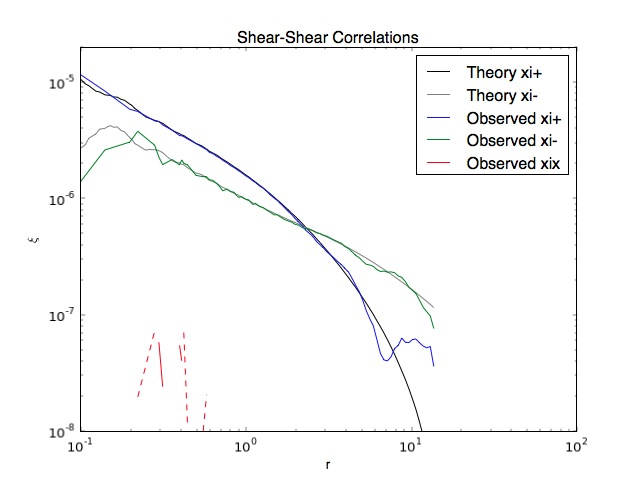
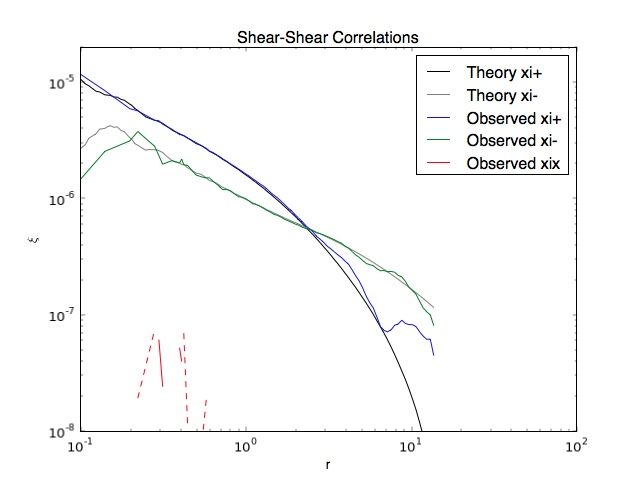
Fix sign errors in lensing module (#304)

diff --git a/galsim/lensing.py b/galsim/lensing.py
@@ -870,18 +870,35 @@ class PowerSpectrumRealizer(object):
     def set_size(self, ngrid, pixel_size):
         self.nx = ngrid
         self.ny = ngrid
-        i_kx, i_ky = np.mgrid[0: self.nx / 2 + 1, 0: self.ny / 2 + 1]
-        self.i_kx = i_kx
-        self.i_ky = i_ky
+
+        # Setup some handy numpy indices for indexing different parts of k space
+        self.ikx = slice(0,self.nx/2+1)     # positive kx values, including 0, nx/2
+        self.ikxp = slice(1,self.nx/2)      # limit to only values with a negative value
+        self.ikxn = slice(-1,-self.nx/2,-1) # negative kx values
+
+        # We always call this with nx=ny, so behavior with nx != ny is not tested.
+        # However, we make a basic attempt to enable such behavior in the future if needed.
+        self.iky = slice(0,self.ny/2+1)
+        self.ikyp = slice(1,self.ny/2)
+        self.ikyn = slice(-1,-self.ny/2,-1)
+
+        # Set up the scalar k grid. Generally, for a box size of L (in one dimension), the grid
+        # spacing in k_x or k_y is Delta k=2pi/L 
         pixel_size = float(pixel_size)
         self.pixel_size = pixel_size
+        i_ky, i_kx = np.mgrid[self.iky, self.ikx]
+        self.kx = i_kx * 2. * np.pi / (pixel_size * self.nx)
+        self.ky = i_ky * 2. * np.pi / (pixel_size * self.ny)
 
-        # Set up the scalar |k| grid. Generally, for a box size of L (in one dimension), the grid
-        # spacing in k_x or k_y is Delta k=2pi/L (Barney edit: sqrt faster than **.5 I think...)
-        self.k = 2.*np.pi*np.sqrt((i_kx / (pixel_size * self.nx))**2 + (i_ky / (pixel_size * self.ny))**2)
-
-        #Compute the spin weightings
-        self._cos, self._sin = self._generate_spin_weightings()        
+        # Compute the spin weightings
+        kz = self.kx + self.ky*1j
+        # exp(2i psi) = kz^2 / |kz|^2
+        ksq = kz*np.conj(kz)
+        # Need to adjust denominator for kz=0 to avoid division by 0.
+        ksq[0,0] = 1.
+        self.exp2ipsi = kz*kz/ksq
+        # Note: this leaves exp2ipsi[0,0] = 0, but it turns out that's ok, since we only
+        # ever multiply it by something that is 0 anyway (amplitude[0,0] = 0).
 
     def set_power(self, p_E, p_B):
         self.p_E = p_E
@@ -908,95 +925,100 @@ class PowerSpectrumRealizer(object):
                 "The gd provided to the PowerSpectrumRealizer is not a GaussianDeviate!")
 
         # Generate a random complex realization for the E-mode, if there is one
+        nx = self.nx
+        ny = self.ny
         if self.amplitude_E is not None:
             r1 = galsim.utilities.rand_arr(self.amplitude_E.shape, gd)
             r2 = galsim.utilities.rand_arr(self.amplitude_E.shape, gd)
-            E_k = self.amplitude_E * (r1 + 1j*r2) * ISQRT2  
+            E_k = np.empty((ny,nx)).astype(type(1.+1.j))
+            E_k[:,self.ikx] = self.amplitude_E * (r1 + 1j*r2) * ISQRT2
+            # E_k corresponds to real kappa, so E_k[-k] = conj(E_k[k])
+            # First update the kx=0 values to be consistent with that fact:
+            E_k[self.ikyn,0] = np.conj(E_k[self.ikyp,0])
+            # Then fill the kx<0 values appropriately
+            E_k[self.ikyp,self.ikxn] = np.conj(E_k[self.ikyn,self.ikxp])
+            E_k[self.ikyn,self.ikxn] = np.conj(E_k[self.ikyp,self.ikxp])
+            E_k[0,self.ikxn] = np.conj(E_k[0,self.ikxp])
+            E_k[ny/2,self.ikxn] = np.conj(E_k[ny/2,self.ikxp])
         else: E_k = 0
 
         # Generate a random complex realization for the B-mode, if there is one
         if self.amplitude_B is not None:
             r1 = galsim.utilities.rand_arr(self.amplitude_B.shape, gd)
             r2 = galsim.utilities.rand_arr(self.amplitude_B.shape, gd)
-            B_k = self.amplitude_B * (r1 + 1j*r2) * ISQRT2
+            B_k = np.empty((ny,nx)).astype(type(1.+1.j))
+            B_k[:,self.ikx] = self.amplitude_B * (r1 + 1j*r2) * ISQRT2
+            # B_k corresponds to imag kappa, so B_k[-k] = -conj(B_k[k])
+            # However, we later multiply this by i, so that means here B_k[-k] = conj(B_k[k])
+            B_k[self.ikyn,0] = np.conj(B_k[self.ikyp,0])
+            B_k[self.ikyp,self.ikxn] = np.conj(B_k[self.ikyn,self.ikxp])
+            B_k[self.ikyn,self.ikxn] = np.conj(B_k[self.ikyp,self.ikxp])
+            B_k[0,self.ikxn] = np.conj(B_k[0,self.ikxp])
+            B_k[ny/2,self.ikxn] = np.conj(B_k[ny/2,self.ikxp])
         else:
             B_k = 0
 
-        # Now convert from E,B to g1,g2  still in fourier space
-        g1_k =  self._cos*E_k + self._sin*B_k
-        g2_k = -self._sin*E_k + self._cos*B_k
+        # In terms of kappa, the E mode is the real kappa, and the B mode is imaginary kappa:
+        # In fourier space, both E_k and B_k are complex, but the same E + i B relation holds.
+        kappa_k = E_k + 1j * B_k
 
-        # And go to real space to get the real-space shear fields
-        g1 = g1_k.shape[0] * np.fft.irfft2(g1_k, s=(self.nx,self.ny))
-        g2 = g2_k.shape[0] * np.fft.irfft2(g2_k, s=(self.nx,self.ny))
+        # Build full-sized exp2ipsi array
+        exp2ipsi = np.empty((ny,nx)).astype(type(1.+1.j))
+        exp2ipsi[self.iky,self.ikx] = self.exp2ipsi
+        exp2ipsi[self.iky,self.ikxn] = np.conj(self.exp2ipsi[self.iky,self.ikxp])
+        exp2ipsi[self.ikyn,:] = np.conj(exp2ipsi[self.ikyp,:])
 
-        # Get kappa, the convergence field.
-        # Convert the self.i_kx, which are indices, into kx, which are wavenumbers (note: must match
-        # units convention adopted for dimensional self.k)
-        kx = 2. * np.pi * self.i_kx / (self.pixel_size * self.nx)
-        ky = 2. * np.pi * self.i_ky / (self.pixel_size * self.ny)
+        # Compute gamma_k as exp(2i psi) kappa_k
+        # Equation 2.1.12 of Kaiser & Squires (1993, ApJ, 404, 441) is equivalent to:
+        #   gamma_k = -exp2ipsi * kappa_k
+        # But of course, they only considered real (E-mode) kappa.
+        # However, this equation has a sign error.  There should not be a minus in front.
+        # If you follow their subsequent deviation, you will see that they drop the minus sign
+        # when they get to 2.1.15 (another - appears from the derivative).  2.1.15 is correct.
+        # e.g. it correctly produces a positive point mass for tangential shear ~ 1/r^2.
+        # So this implies that the minus sign in 2.1.12 should not be there.
+        gamma_k = exp2ipsi * kappa_k
 
-        # Compute the convergence fourier components using the simple relation in Kaiser & Squires
-        # (1993, ApJ, 404, 441), equation 2.1.12.
-        kappa_k = -self._cos*g1_k + self._sin*g2_k
-        # Set the DC term to zero.
-        kappa_k[0,0] = 0
+        # And go to real space to get the real-space shear and convergence fields
+        gamma = self.nx * np.fft.ifft2(gamma_k)
+        kappa = self.nx * np.fft.ifft2(kappa_k)
 
-        # Transform into real space.
-        kappa = kappa_k.shape[0] * np.fft.irfft2(kappa_k, s=(self.nx,self.ny))
+        # Make them contiguous, since we need to use them in an Image, which requires it.
+        g1 = np.ascontiguousarray(np.real(gamma))
+        g2 = np.ascontiguousarray(np.imag(gamma))
+        k = np.ascontiguousarray(np.real(kappa))
 
-        return g1, g2, kappa
+        return g1, g2, k
 
     def _generate_power_array(self, power_function):
         # Internal function to generate the result of a power function evaluated on a grid,
         # taking into account the symmetries.
-        power_array = np.zeros((self.nx, self.ny/2+1))
+        power_array = np.empty((self.ny, self.nx/2+1))
 
-        # Make a faked-up self.k array that fudges the value at k=0, so we don't have to evaluate
-        # power there
-        fake_k = self.k.copy()
-        fake_k[0,0] = fake_k[1,0]
+        # Set up the scalar |k| grid
+        k = np.sqrt(self.kx**2 + self.ky**2)
+
+        # Fudge the value at k=0, so we don't have to evaluate power there
+        k[0,0] = k[1,0]
         # Raise a clear exception for LookupTable that are not defined on the full k range!
         if isinstance(power_function, galsim.LookupTable):
-            mink = np.min(fake_k)
-            maxk = np.max(fake_k)
+            mink = np.min(k)
+            maxk = np.max(k)
             if mink < power_function.x_min or maxk > power_function.x_max:
                 raise ValueError(
                     "LookupTable P(k) is not defined for full k range on grid, %f<k<%f"%(mink,maxk))
-        P_k = power_function(fake_k)
+        P_k = power_function(k)
         
         # Now fix the k=0 value of power to zero
-        if type(P_k) is np.ndarray:
-            P_k[0,0] = type(P_k[0,1])(0.)
-        else:
-            P_k = 0.
-        power_array[ self.i_kx, self.i_ky] = P_k
-        power_array[-self.i_kx, self.i_ky] = P_k
-        if np.any(power_array < 0):
+        assert type(P_k) is np.ndarray
+        P_k[0,0] = type(P_k[0,1])(0.)
+        if np.any(P_k < 0):
             raise ValueError("Negative power found for some values of k!")
+
+        power_array[self.iky, self.ikx] = P_k
+        power_array[self.ikyn, self.ikx] = P_k[self.ikyp, self.ikx]
         return power_array
     
-    def _generate_spin_weightings(self):
-        # Internal function to generate the cosine and sine spin weightings for the current array
-        # set-up.
-        C = np.zeros((self.nx, self.ny / 2 + 1))
-        S = np.zeros((self.nx, self.ny / 2 + 1))
-        i_kx = self.i_kx
-        i_ky = self.i_ky
-        fi_kx = i_kx.astype(float)
-        fi_ky = i_ky.astype(float)
-        fi_k2 = (fi_kx * fi_kx + fi_ky * fi_ky)
-        # Use Joe's cheap trick to avoid zero division at origin...
-        fi_k2[0, 0] = 1.
-        C[ i_kx, i_ky] = (fi_kx * fi_kx - fi_ky * fi_ky) / fi_k2
-        S[ i_kx, i_ky] = 2. * fi_kx * fi_ky / fi_k2
-        C[-i_kx, i_ky] =  C[i_kx,i_ky]
-        S[-i_kx, i_ky] = -S[i_kx,i_ky]
-        # ...Hand enter correct values at origin
-        C[0, 0] = 1.
-        S[0, 0] = 0.
-        return C, S
-
 class Cosmology(object):
     """Basic cosmology calculations.
 
@@ -1482,27 +1504,35 @@ def kappaKaiserSquires(g1, g2):
 
     # Then setup the kx, ky grids
     kx, ky = galsim.utilities.kxky(g1.shape)
-    kx = kx[:, 0:g1.shape[1]/2 + 1] # Use Hermitian symmetry for speed
-    ky = ky[:, 0:g1.shape[1]/2 + 1] # Use Hermitian symmetry for speed
-    k2 = (kx * kx + ky * ky)
+    kz = kx + ky*1j
 
-    # Transform to Fourier space
-    g1_k = np.fft.rfft2(g1)
-    g2_k = np.fft.rfft2(g2)
+    # exp(2i psi) = kz^2 / |kz|^2
+    ksq = kz*np.conj(kz)
+    # Need to adjust denominator for kz=0 to avoid division by 0.
+    ksq[0,0] = 1.
+    exp2ipsi = kz*kz/ksq
 
-    # Use trick from buildGrid, setting k2=1 to avoid division by zero, then later setting
-    # kappa[0,0] = 0.
-    k2[0, 0] = 1.
-    # Calculate, using Kaiser & Squires (1993)
-    kappaE_k = ((kx * kx - ky * ky) * g1_k + 2. * kx * ky * g2_k) / k2
-    # For B rotation (g1)<-(-g2) and (g2)<-(g1)
-    kappaB_k = (-(kx * kx - ky * ky) * g2_k + 2. * kx * ky * g1_k) / k2
-    kappaE_k[0, 0] = 0.
-    kappaB_k[0, 0] = 0.
+    # Build complex g = g1 + i g2
+    gz = g1 + g2*1j
 
-    # Transform back to real space, then return
-    kappaE = np.fft.irfft2(kappaE_k)
-    kappaB = np.fft.irfft2(kappaB_k)
+    # Go to fourier space
+    gz_k = np.fft.fft2(gz)
+
+    # Equation 2.1.12 of Kaiser & Squires (1993) is equivalent to:
+    #   kz_k = -np.conj(exp2ipsi)*gz_k
+    # However, this equation has a sign error.  There should not be a minus in front.
+    # If you follow their subsequent deviation, you will see that they drop the minus sign
+    # when they get to 2.1.15 (another - appears from the derivative).  2.1.15 is correct.
+    # e.g. it correctly produces a positive point mass for tangential shear ~ 1/r^2.
+    # So this implies that the minus sign in 2.1.12 should not be there.
+    kz_k = np.conj(exp2ipsi)*gz_k
+
+    # Come back to real space
+    kz = np.fft.ifft2(kz_k)
+
+    # kz = kappa_E + i kappa_B
+    kappaE = np.real(kz)
+    kappaB = np.imag(kz)
     return kappaE, kappaB
 
 

diff --git a/tests/test_lensing.py b/tests/test_lensing.py
@@ -70,11 +70,9 @@ def shear_gaussian(theta1_array, theta2_array, sigma, pos, amp=1., rotate45=Fals
     theta2 = t1 * t1 + t2 * t2
     gammat = 2. * amp * sigma2 * (
         1. - (1. + .5 * theta2 / sigma2) * np.exp(-.5 * theta2 / sigma2)) / theta2 
-    g1 = -gammat * (t1**2 - t2**2) / theta2
-    g2 = -gammat * 2. * t1 * t2 / theta2
     if rotate45:
-        g2 =  gammat * (t1**2 - t2**2) / theta2
-        g1 = -gammat * 2. * t1 * t2 / theta2
+        g2 = -gammat * (t1**2 - t2**2) / theta2
+        g1 =  gammat * 2. * t1 * t2 / theta2
     else:
         g1 = -gammat * (t1**2 - t2**2) / theta2
         g2 = -gammat * 2. * t1 * t2 / theta2
@@ -550,12 +548,13 @@ def test_power_spectrum_with_kappa():
         rng=galsim.BaseDeviate(rseed), get_convergence=True)
     kE_ks, kB_ks = galsim.lensing.kappaKaiserSquires(g1E, g2E)
     # Test that E-mode kappa matches to some sensible accuracy
+    exact_dp = 15
     np.testing.assert_array_almost_equal(
-        k_test, kE_ks, decimal=16,
+        k_test, kE_ks, decimal=exact_dp,
         err_msg="E-mode only PowerSpectrum output kappaE does not match KS inversion to 16 d.p.")
     # Test that B-mode kappa matches zero to some sensible accuracy
     np.testing.assert_array_almost_equal(
-        kB_ks, np.zeros_like(kE_ks), decimal=16,
+        kB_ks, np.zeros_like(kE_ks), decimal=exact_dp,
         err_msg="E-mode only PowerSpectrum output kappaB from KS does not match zero to 16 d.p.")
 
     # Then do B-mode only input power
@@ -566,21 +565,21 @@ def test_power_spectrum_with_kappa():
     kE_ks, kB_ks = galsim.lensing.kappaKaiserSquires(g1B, g2B)
     # Test that kappa output by PS code matches zero to some sensible accuracy
     np.testing.assert_array_almost_equal(
-        k_test, np.zeros_like(k_test), decimal=16,
+        k_test, np.zeros_like(k_test), decimal=exact_dp,
         err_msg="B-mode only PowerSpectrum output kappa does not match zero to 16 d.p.")
     # Test that E-mode kappa inferred via KS also matches zero to some sensible accuracy
     np.testing.assert_array_almost_equal(
-        kE_ks, np.zeros_like(kB_ks), decimal=16,
+        kE_ks, np.zeros_like(kB_ks), decimal=exact_dp,
         err_msg="B-mode only PowerSpectrum output kappaE from KS does not match zero to 16 d.p.")
 
     # Then for luck take B-mode only shears but rotate by 45 degrees before KS, and check
     # consistency 
     kE_ks_rotated, kB_ks_rotated = galsim.lensing.kappaKaiserSquires(g2B, -g1B)
     np.testing.assert_array_almost_equal(
-        kE_ks_rotated, -kB_ks, decimal=16,
+        kE_ks_rotated, kB_ks, decimal=exact_dp,
         err_msg="KS inverted kappaE from B-mode only PowerSpectrum fails rotation test.")
     np.testing.assert_array_almost_equal(
-        kB_ks_rotated, np.zeros_like(kB_ks), decimal=16,
+        kB_ks_rotated, np.zeros_like(kB_ks), decimal=exact_dp,
         err_msg="KS inverted kappaB from B-mode only PowerSpectrum fails rotation test.")
     t2 = time.time()
     print 'time for %s = %.2f'%(funcname(),t2-t1)
@@ -589,7 +588,7 @@ if __name__ == "__main__":
     test_nfwhalo()
     test_shear_flatps()
     test_shear_seeds()
-    test_shear_reference()
+    #test_shear_reference()
     test_shear_get()
     test_tabulated()
     test_kappa_gauss()
